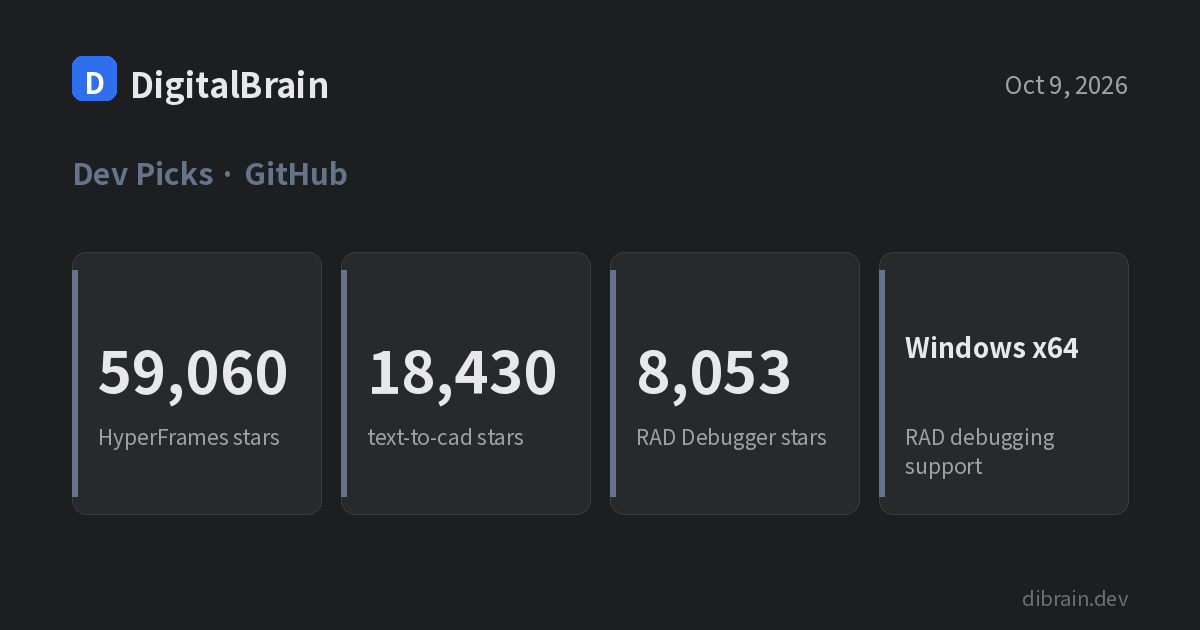
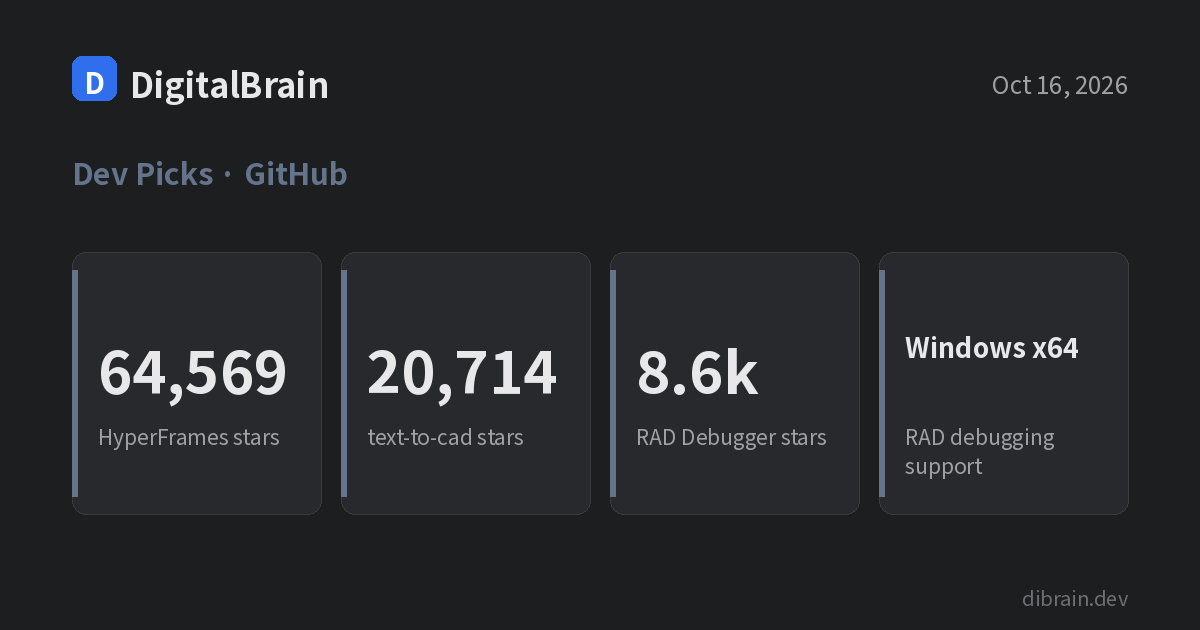
post: Surface Laptop Ultra (RTX Spark) and GitHub picks — reviewed
Both drafts approved by the operator after re-checking every number.

Surface Laptop Ultra:
- Germany: €4,239 is the 32GB/1TB configuration, not the full spec;
  the 128GB model is €6,879 (Microsoft Store DE, Notebookcheck).
- US higher tier filled in: from $3,699.99 (32GB/1TB, 20-core).
- "1 petaflop (FP4)" → Microsoft quotes up to one petaflop without a
  precision; bandwidth stated as reported, not on Microsoft's spec page.
- Dell XPS 16 Creator Edition price now known ($3,799.99, 32GB/512GB).
- Sources now lead with Microsoft's blog and store pages.

GitHub picks:
- Star counts and weekly gains updated to the 2026-10-16 trending page.
- RAD Debugger does have releases (latest v0.9.29-alpha, Sep 30); the
  draft said none of the three had any.
- Added the Smart App Control caveat (cannot be re-enabled without
  reinstalling Windows) and what text-to-cad telemetry does not send.

Claude-Session: https://claude.ai/code/session_01Hxmxdanjb42vteTsPJVtFn

diff --git a/content/posts/2026-10-16-dev-hyperframes-text-to-cad-raddebugger.ko.md b/content/posts/2026-10-16-dev-hyperframes-text-to-cad-raddebugger.ko.md
@@ -1,29 +1,30 @@
 ---
 title: "에이전트가 영상과 CAD를 뽑고, 디버거는 아직 알파"
 seoTitle: "HyperFrames·text-to-cad·RAD Debugger 사용법 | GitHub 트렌딩"
-date: 2026-10-09T03:12:38+09:00
+date: 2026-10-16T10:09:41+09:00
 slug: "dev-hyperframes-text-to-cad-raddebugger"
 summary: "이번 주 GitHub 주간 트렌딩에서 HTML로 영상을 렌더링하는 HyperFrames, 에이전트에게 3D CAD 모델링을 맡기는 text-to-cad, 에픽게임즈의 그래픽 디버거 RAD Debugger를 골라 라이선스와 설치 방법, 현재 한계를 정리했습니다."
 tags: ["GitHub"]
 categories: ["Dev Picks"]
 cover:
   image: "/images/posts/dev-hyperframes-text-to-cad-raddebugger.ko.png"
-  alt: "커버 카드: HyperFrames 스타 5만 9천 개, text-to-cad 스타 1만 8천 개, RAD Debugger 스타 8천 개, RAD Debugger 지원 범위 Windows x64"
+  alt: "커버 카드: HyperFrames 스타 6만 4천여 개, text-to-cad 스타 2만 7백여 개, RAD Debugger 스타 약 8,600개, RAD Debugger 지원 범위 Windows x64"
   relative: false
-draft: true
+draft: false
+reviewed: "2026-10-16"
 ---
 
-AI 에이전트에게 코드만 짜게 하던 시기가 지나고, 영상과 3D 모델 같은 결과물까지 맡기는 저장소가 GitHub 주간 트렌딩에 올라왔습니다. 같은 목록에는 에이전트와 전혀 상관없는 네이티브 디버거도 있어서, 방향이 다른 세 개를 골랐습니다. 스타 수와 주간 증가분은 2026년 10월 9일 [GitHub 주간 트렌딩](https://github.com/trending?since=weekly) 화면 기준입니다.
+AI 에이전트에게 코드만 짜게 하던 시기가 지나고, 영상과 3D 모델 같은 결과물까지 맡기는 저장소가 GitHub 주간 트렌딩에 올라왔습니다. 같은 시기 목록에는 에이전트와 전혀 상관없는 네이티브 디버거도 있어서, 방향이 다른 세 개를 골랐습니다. 스타 수와 주간 증가분은 2026년 10월 16일 [GitHub 주간 트렌딩](https://github.com/trending?since=weekly) 화면 기준입니다. RAD Debugger는 10월 9일 목록에 있었고 16일 목록에서는 빠져, 저장소 페이지에 표시된 값을 적었습니다.
 
 | 저장소 | 총 스타 | 이번 주 증가 | 라이선스 |
 |---|---|---|---|
-| heygen-com/hyperframes | 59,060 | 3,908 | Apache 2.0 |
-| earthtojake/text-to-cad | 18,430 | 1,800 | MIT |
-| EpicGames/raddebugger | 8,053 | 257 | MIT |
+| heygen-com/hyperframes | 64,569 | 5,318 | Apache 2.0 |
+| earthtojake/text-to-cad | 20,714 | 2,244 | MIT |
+| EpicGames/raddebugger | 약 8,600 | — | MIT |
 
-출처: [GitHub Trending (weekly)](https://github.com/trending?since=weekly), [hyperframes](https://github.com/heygen-com/hyperframes), [text-to-cad](https://github.com/earthtojake/text-to-cad), [raddebugger](https://github.com/EpicGames/raddebugger)
+출처: [GitHub Trending (weekly)](https://github.com/trending?since=weekly), [hyperframes](https://github.com/heygen-com/hyperframes), [text-to-cad](https://github.com/earthtojake/text-to-cad), [raddebugger](https://github.com/EpicGames/raddebugger), [raddebugger 릴리스](https://github.com/EpicGames/raddebugger/releases)
 
-> **아직 확인하지 못한 것:** 세 저장소 모두 GitHub Releases 항목이 비어 있어 최신 릴리스 번호와 날짜를 확인하지 못했습니다.
+> **아직 확인하지 못한 것:** HyperFrames와 text-to-cad는 GitHub Releases 항목이 비어 있어 최신 릴리스 번호와 날짜를 확인하지 못했습니다. RAD Debugger는 9월 30일 올라온 `v0.9.29-alpha`가 최신 릴리스입니다.
 
 ## HyperFrames: HTML을 써서 MP4로 굽습니다
 
@@ -60,7 +61,7 @@ claude plugin install text-to-cad@earthtojake
 
 그 밖에 Codex, Cursor, Gemini용 명령과, 스킬만 쓰는 `npx skills add earthtojake/text-to-cad#latest` 가 README에 있습니다.
 
-**쓰기 전에 알아 둘 조건이 있습니다.** README는 CAD 실행에 `uv`가 필요하고, 처음 시작할 때 CAD 런타임을 내려받으려면 네트워크가 있어야 한다고 적었습니다. Windows 11에서는 스마트 앱 컨트롤을 꺼야 하며, 아니면 WSL에서 CAD 스킬을 돌려야 `OCP`가 불러와집니다. 원격 측정은 기본으로 켜져 있고 `uvx cadgen telemetry off`로 끌 수 있습니다.
+**쓰기 전에 알아 둘 조건이 있습니다.** README는 CAD 실행에 `uv`가 필요하고, 처음 시작할 때 CAD 런타임을 내려받으려면 네트워크가 있어야 한다고 적었습니다. Windows 11에서는 스마트 앱 컨트롤이 서명되지 않은 `OCP` 모듈을 막으므로, 이 기능을 끄거나 WSL에서 CAD 스킬을 돌려야 합니다. README에 따르면 스마트 앱 컨트롤은 한 번 끄면 Windows를 다시 설치하기 전에는 다시 켤 수 없어서, 회사 PC라면 WSL 쪽이 안전합니다. 원격 측정은 기본으로 켜져 있고(파일·경로·프롬프트는 보내지 않는다고 밝힘) `uvx cadgen telemetry off`로 끌 수 있습니다.
 
 임베디드·하드웨어 쪽에서는 케이스나 브래킷 같은 부품의 초안을 STL로 뽑아 3D 프린터로 보내는 용도가 가장 가깝습니다. 생성된 모델의 정밀도나 공차는 확인한 자료가 없어 판단하지 않습니다.
 
@@ -70,9 +71,9 @@ claude plugin install text-to-cad@earthtojake
 
 [RAD Debugger](https://github.com/EpicGames/raddebugger)는 에픽게임즈 조직 저장소이고 MIT 라이선스입니다. README는 이것을 "네이티브, 사용자 모드, 다중 프로세스 그래픽 디버거"라고 소개합니다. 같은 저장소에 디버그 정보 형식인 RDI와, 아주 큰 실행 파일의 빠른 링킹을 목표로 하는 RAD Linker도 들어 있습니다.
 
-에이전트와는 무관한 저장소가 한 주에 257개 스타를 더한 것은 눈에 띄지만, **README가 스스로 알파라고 밝히고 있습니다.** 현재는 PDB를 쓰는 로컬 Windows x64 디버깅만 지원하고, 리눅스 네이티브 디버깅과 DWARF 지원은 계획 단계입니다. 리눅스 x64는 빌드 대상이지만 디버깅 대상은 아직 아닙니다.
+에이전트와 무관한 디버거가 트렌딩에 오른 것은 눈에 띄지만, **README가 스스로 알파라고 밝히고 있습니다.** 미리 빌드한 실행 파일은 릴리스 페이지에 있고, 최신은 `v0.9.29-alpha`입니다. 현재는 PDB를 쓰는 로컬 Windows x64 디버깅만 지원하고, 리눅스 네이티브 디버깅과 DWARF 지원은 계획 단계입니다. 리눅스 x64는 빌드 대상이지만 디버깅 대상은 아직 아닙니다.
 
-빌드 명령은 README에 아래처럼 나옵니다. 성공하면 `build` 폴더에 `raddbg.exe`(Windows) 또는 `raddbg`(리눅스) 바이너리가 생깁니다.
+직접 빌드하려면 README의 명령을 씁니다. Windows는 MSVC x64 개발자 명령 프롬프트에서 실행하고, 리눅스는 GCC나 Clang이 필요합니다. 성공하면 `build` 폴더에 `raddbg.exe`(Windows) 또는 `raddbg`(리눅스) 바이너리가 생깁니다.
 
 ```bash
 # Windows x64
@@ -86,4 +87,4 @@ build release
 
 ## 같은 트렌딩, 쓸 수 있는 시점은 다릅니다
 
-HyperFrames와 text-to-cad는 명령 몇 줄로 오늘 시험해 볼 수 있지만 둘 다 에이전트 환경이 갖춰져 있어야 합니다. RAD Debugger는 설치가 간단해도 지원 범위가 Windows x64로 좁습니다. 스타 수가 많은 순서가 아니라, 내 작업 환경이 각 저장소의 전제 조건과 맞는지를 먼저 보는 편이 안전합니다.
+HyperFrames와 text-to-cad는 명령 몇 줄로 오늘 시험해 볼 수 있지만 둘 다 에이전트 환경이 갖춰져 있어야 합니다. RAD Debugger는 릴리스 파일을 받으면 바로 쓸 수 있지만 지원 범위가 Windows x64로 좁습니다. 스타 수가 많은 순서가 아니라, 내 작업 환경이 각 저장소의 전제 조건과 맞는지를 먼저 보는 편이 안전합니다.

diff --git a/content/posts/2026-10-16-dev-hyperframes-text-to-cad-raddebugger.en.md b/content/posts/2026-10-16-dev-hyperframes-text-to-cad-raddebugger.en.md
@@ -1,29 +1,30 @@
 ---
 title: "Agents now render video and CAD; the debugger is still alpha"
 seoTitle: "HyperFrames, text-to-cad, RAD Debugger: GitHub Trending This Week"
-date: 2026-10-09T03:12:38+09:00
+date: 2026-10-16T10:09:41+09:00
 slug: "dev-hyperframes-text-to-cad-raddebugger"
 summary: "Three repositories from this week's GitHub trending list: HyperFrames renders HTML to MP4, text-to-cad lets coding agents build 3D CAD models, and Epic Games' RAD Debugger. Licenses, install commands and current limits."
 tags: ["GitHub"]
 categories: ["Dev Picks"]
 cover:
   image: "/images/posts/dev-hyperframes-text-to-cad-raddebugger.en.png"
-  alt: "Cover card: HyperFrames 59k stars, text-to-cad 18k stars, RAD Debugger 8k stars, RAD Debugger supports Windows x64 debugging"
+  alt: "Cover card: HyperFrames 64.5k stars, text-to-cad 20.7k stars, RAD Debugger about 8.6k stars, RAD Debugger supports Windows x64 debugging"
   relative: false
-draft: true
+draft: false
+reviewed: "2026-10-16"
 ---
 
-Agents that only write code are no longer the interesting part of GitHub's weekly trending list. Two of this week's entries hand agents a different output, video and 3D models, and a third is a native debugger with nothing to do with agents. Star counts and weekly gains below come from the [GitHub weekly trending page](https://github.com/trending?since=weekly) as of October 9, 2026.
+Agents that only write code are no longer the interesting part of GitHub's weekly trending list. Two of this week's entries hand agents a different output, video and 3D models, and a third is a native debugger with nothing to do with agents. Star counts and weekly gains below come from the [GitHub weekly trending page](https://github.com/trending?since=weekly) as of October 16, 2026. RAD Debugger was on the October 9 list but not the October 16 one, so its count is the figure shown on its repository page.
 
 | Repository | Total stars | Gained this week | License |
 |---|---|---|---|
-| heygen-com/hyperframes | 59,060 | 3,908 | Apache 2.0 |
-| earthtojake/text-to-cad | 18,430 | 1,800 | MIT |
-| EpicGames/raddebugger | 8,053 | 257 | MIT |
+| heygen-com/hyperframes | 64,569 | 5,318 | Apache 2.0 |
+| earthtojake/text-to-cad | 20,714 | 2,244 | MIT |
+| EpicGames/raddebugger | about 8,600 | — | MIT |
 
-Sources: [GitHub Trending (weekly)](https://github.com/trending?since=weekly), [hyperframes](https://github.com/heygen-com/hyperframes), [text-to-cad](https://github.com/earthtojake/text-to-cad), [raddebugger](https://github.com/EpicGames/raddebugger)
+Sources: [GitHub Trending (weekly)](https://github.com/trending?since=weekly), [hyperframes](https://github.com/heygen-com/hyperframes), [text-to-cad](https://github.com/earthtojake/text-to-cad), [raddebugger](https://github.com/EpicGames/raddebugger), [raddebugger releases](https://github.com/EpicGames/raddebugger/releases)
 
-> **Not yet confirmed:** none of the three repositories shows a GitHub Releases entry, so we could not confirm a latest release number or date.
+> **Not yet confirmed:** HyperFrames and text-to-cad show no GitHub Releases entry, so we could not confirm a latest release number or date. RAD Debugger's latest release is `v0.9.29-alpha`, published September 30.
 
 ## HyperFrames: write HTML, get an MP4
 
@@ -60,7 +61,7 @@ claude plugin install text-to-cad@earthtojake
 
 The README also covers Codex, Cursor and Gemini, and a skills-only route: `npx skills add earthtojake/text-to-cad#latest`.
 
-**Check the prerequisites first.** CAD runs through `uv`, and the first start needs a network connection to download the CAD runtime. On Windows 11, Smart App Control must be off, or you run the skills under WSL, otherwise `OCP` fails to load. Telemetry is on by default; `uvx cadgen telemetry off` disables it.
+**Check the prerequisites first.** CAD runs through `uv`, and the first start needs a network connection to download the CAD runtime. On Windows 11, Smart App Control blocks the unsigned `OCP` module, so either turn it off or run the CAD skills under WSL. The README notes that once Smart App Control is off it can only be turned back on by reinstalling Windows, so WSL is the safer route on a work PC. Telemetry is on by default (the README says files, paths and prompts are not sent); `uvx cadgen telemetry off` disables it.
 
 For hardware work, the closest fit is drafting enclosures or brackets as STL for a 3D printer. We found no data on the dimensional accuracy or tolerances of generated models, so we do not judge them.
 
@@ -70,9 +71,9 @@ Best for: developers who design printable parts often and want to iterate on par
 
 [RAD Debugger](https://github.com/EpicGames/raddebugger) lives in Epic Games' organization under the MIT license. The README calls it "a native, user-mode, multi-process, graphical debugger." The repository also contains RDI, a debug-info format, and the RAD Linker, aimed at fast linking of very large executables.
 
-A repository unrelated to agents adding 257 stars in a week stands out, but **the README itself labels the project alpha.** It currently supports only local-machine Windows x64 debugging with PDBs; native Linux debugging and DWARF support are planned. Linux x64 is a build target, not yet a debugging target.
+A debugger with nothing to do with agents showing up on the trending list stands out, but **the README itself labels the project alpha.** Prebuilt binaries are on the releases page; the latest is `v0.9.29-alpha`. It currently supports only local-machine Windows x64 debugging with PDBs; native Linux debugging and DWARF support are planned. Linux x64 is a build target, not yet a debugging target.
 
-Build commands from the README. A successful build produces `raddbg.exe` (Windows) or a `raddbg` binary (Linux) in the `build` folder.
+To build it yourself, use the README commands: on Windows, run them from an MSVC x64 developer prompt; on Linux you need GCC or Clang. A successful build produces `raddbg.exe` (Windows) or a `raddbg` binary (Linux) in the `build` folder.
 
 ```bash
 # Windows x64
@@ -86,4 +87,4 @@ Best for: Windows developers debugging MSVC-style C/C++ programs who want an alt
 
 ## Same trending list, different readiness
 
-HyperFrames and text-to-cad can be tried today with a few commands, but both assume an agent setup is already in place. RAD Debugger installs simply, yet its supported scope is narrow. Check whether your environment meets each repository's prerequisites before looking at star counts.
+HyperFrames and text-to-cad can be tried today with a few commands, but both assume an agent setup is already in place. RAD Debugger works straight from a release download, yet its supported scope is narrow. Check whether your environment meets each repository's prerequisites before looking at star counts.

diff --git a/content/posts/2026-10-16-laptop-surface-laptop-ultra-rtx-spark.ko.md b/content/posts/2026-10-16-laptop-surface-laptop-ultra-rtx-spark.ko.md
@@ -1,0 +1,49 @@
+---
+title: "서피스 랩톱 울트라, 2,599달러에 RTX Spark를 처음 올렸다"
+seoTitle: "서피스 랩톱 울트라 RTX Spark 스펙·가격: 18코어 vs 20코어, 10월 16일 출하"
+date: 2026-10-16T10:09:41+09:00
+slug: "laptop-surface-laptop-ultra-rtx-spark"
+summary: "마이크로소프트가 엔비디아 RTX Spark를 처음 얹은 서피스 랩톱 울트라의 사전 예약을 시작했습니다. 두 가지 칩 구성과 가격, 출하일, 아직 공개되지 않은 값을 정리했습니다."
+tags: ["Laptop", "Global"]
+categories: ["Deep Dive"]
+cover:
+  image: "/images/posts/laptop-surface-laptop-ultra-rtx-spark.ko.png"
+  alt: "커버 카드: 시작가 2,599달러, 최대 CUDA 코어 6,144개, 최대 메모리 128GB, 출하일 10월 16일"
+  relative: false
+draft: false
+reviewed: "2026-10-16"
+---
+
+노트북 한 대 가격이 2,599달러부터인데, 같은 라인에서 칩을 한 단계 올리면 사양표가 어떻게 달라질까요? 마이크로소프트가 10월 7일 사전 예약을 연 서피스 랩톱 울트라는 엔비디아 RTX Spark(N1X)를 처음 올린 노트북 가운데 하나이고, 구성은 크게 두 가지입니다.
+
+## 18코어와 20코어, 가격은 두 배 넘게 벌어집니다
+
+| 항목 | 기본 구성 | 상위 구성 |
+|---|---|---|
+| CPU | 18코어 | 20코어 |
+| GPU(CUDA 코어) | 5,120개 | 6,144개 |
+| 메모리 / 저장공간 | 24GB / 512GB | 32GB / 1TB부터(최대 128GB) |
+| 미국 가격 | 2,599달러 | 3,699.99달러부터(128GB·1TB 5,899.99달러) |
+| 독일 가격 | 2,899유로 | 32GB·1TB 4,239유로, 128GB 6,879유로 |
+| 디스플레이 | 15인치 미니LED, HDR 최대 2,000니트 | 동일 |
+| 사전 예약 / 출하 | 10월 7일 / 10월 16일 | 동일 |
+
+출처: [마이크로소프트 Windows 블로그](https://blogs.windows.com/devices/2026/10/07/pre-order-our-most-powerful-surface-devices-ever/), [Microsoft Store(미국)](https://www.microsoft.com/en-us/store/configure/surface-laptop-ultra/8wg5vqp0x4b8), [Microsoft Store(독일)](https://www.microsoft.com/de-de/store/configure/surface-laptop-ultra/8wg5vqp0x4b8), [Windows Central](https://www.windowscentral.com/hardware/surface/surface-laptop-ultra-preorders-live), [Notebookcheck(독일 가격)](https://www.notebookcheck.com/Microsoft-Surface-Laptop-Ultra-startet-mit-RTX-Spark-zum-hohen-Preis.1418422.0.html)
+
+> **아직 공개되지 않은 것:** 국내 출시 여부와 원화 가격, 화면 해상도, 배터리 용량, 메모리 대역폭, 독립 벤치마크. 미국 가격은 마이크로소프트 발표 기준(스토어 표기는 2,599.99달러)입니다. 공식 자료가 나오면 이 글을 고칩니다.
+
+## 메모리가 곧 가격표입니다
+
+최대 128GB 통합 메모리까지 올라가는 구성이 5,899.99달러로, 기본형의 두 배를 훌쩍 넘습니다. 같은 20코어 칩이라도 32GB·1TB(3,699.99달러)에서 128GB로 올리면 2,200달러가 더 붙습니다. CPU와 GPU가 같은 메모리를 나눠 쓰는 구조라서, 큰 모델을 로컬에서 돌리려는 사람은 칩보다 메모리 용량 때문에 윗단계를 사게 됩니다. 마이크로소프트는 AI 연산을 최대 1페타플롭으로 소개합니다(어떤 정밀도 기준인지는 밝히지 않았습니다).
+
+메모리 대역폭은 매체마다 300GB/s 안팎으로 적고 있지만, 확인한 마이크로소프트 사양 페이지에는 대역폭 값이 없습니다. 노트북용 칩의 전력 범위는 45~80W로 보도됐습니다. 얇은 서피스 섀시에서 이 전력이 얼마나 유지되는지는 독립 리뷰가 나와야 알 수 있습니다.
+
+출처: [Computing for Geeks](https://computingforgeeks.com/nvidia-rtx-spark-linux/), [StorageReview](https://www.storagereview.com/news/nvidia-rtx-spark-pre-orders-n1x-laptop-desktop-tdp-mxc-dgx-station-for-windows)
+
+## 같은 칩을 쓰는 경쟁은 이제 시작입니다
+
+같은 칩을 쓴 노트북은 서피스만이 아닙니다. 에이수스, 델, 레노버, HP, MSI의 노트북도 10월 16일부터 출하됩니다. 델 XPS 16 크리에이터 에디션은 16인치 3.2K(3,200×2,000) 탠덤 OLED를 달았고, 32GB·512GB 시작 구성이 미국에서 3,799.99달러로 예약을 받고 있습니다. 메모리 32GB끼리 놓으면 서피스 20코어 구성(32GB·1TB, 3,699.99달러)이 100달러 낮습니다. 다만 델 시작 구성의 칩이 18코어인지 20코어인지는 매체마다 달라 확인 필요이고, 화면 크기와 패널 종류도 다르니 가격만으로 줄 세우기는 이릅니다.
+
+출처: [Tom's Hardware](https://www.tomshardware.com/laptops/microsoft-and-nvidia-launch-surface-laptop-ultra-with-rtx-spark-rtx-spark-preorders-live-now-coinciding-with-major-windows-11-changes-for-agentic-ai), [StorageReview(델)](https://www.storagereview.com/news/dell-xps-16-creator-edition-rtx-spark-n1x-windows-gb300-pro-precision), [Notebookcheck(델)](https://www.notebookcheck.net/Dell-launches-Nvidia-RTX-Spark-laptop-with-18-core-CPU-3-2K-120Hz-OLED-display-and-99-Wh-battery.1418563.0.html)
+
+정리하면, 24GB 기본형은 2,599달러에 새 칩을 맛보는 구성이고, 로컬 AI가 목적이라면 메모리를 키운 상위 구성만 의미가 있습니다. 다만 실사용 성능과 발열은 출하 이후 리뷰에서 확인해야 합니다.

diff --git a/content/posts/2026-10-16-laptop-surface-laptop-ultra-rtx-spark.en.md b/content/posts/2026-10-16-laptop-surface-laptop-ultra-rtx-spark.en.md
@@ -1,0 +1,49 @@
+---
+title: "Surface Laptop Ultra Is the First RTX Spark Laptop You Can Preorder, From $2,599"
+seoTitle: "Surface Laptop Ultra RTX Spark Specs and Price: 18-Core vs 20-Core, Ships Oct 16"
+date: 2026-10-16T10:09:41+09:00
+slug: "laptop-surface-laptop-ultra-rtx-spark"
+summary: "Microsoft opened preorders for the Surface Laptop Ultra, among the first laptops built on Nvidia's RTX Spark (N1X). Here are the two chip tiers, prices, ship date and what is still undisclosed."
+tags: ["Laptop", "Global"]
+categories: ["Deep Dive"]
+cover:
+  image: "/images/posts/laptop-surface-laptop-ultra-rtx-spark.en.png"
+  alt: "Cover card: starting price $2,599, up to 6,144 CUDA cores, up to 128GB memory, ships October 16"
+  relative: false
+draft: false
+reviewed: "2026-10-16"
+---
+
+Microsoft's Surface Laptop Ultra, open for preorder since October 7, is built on Nvidia's RTX Spark (N1X). The headline is the memory ladder: the chip tier matters less than how much unified memory you buy with it.
+
+## Two chip tiers, a wide price gap
+
+| Spec | Base | Higher tier |
+|---|---|---|
+| CPU | 18 cores | 20 cores |
+| GPU (CUDA cores) | 5,120 | 6,144 |
+| Memory / storage | 24GB / 512GB | from 32GB / 1TB (up to 128GB) |
+| US price | $2,599 | from $3,699.99 (128GB/1TB: $5,899.99) |
+| Germany | €2,899 | 32GB/1TB €4,239; 128GB €6,879 |
+| Display | 15" Mini-LED, up to 2,000 nits peak HDR | same |
+| Preorder / ships | Oct 7 / Oct 16 | same |
+
+Sources: [Microsoft Windows blog](https://blogs.windows.com/devices/2026/10/07/pre-order-our-most-powerful-surface-devices-ever/), [Microsoft Store (US)](https://www.microsoft.com/en-us/store/configure/surface-laptop-ultra/8wg5vqp0x4b8), [Microsoft Store (Germany)](https://www.microsoft.com/de-de/store/configure/surface-laptop-ultra/8wg5vqp0x4b8), [Windows Central](https://www.windowscentral.com/hardware/surface/surface-laptop-ultra-preorders-live), [Notebookcheck (German pricing)](https://www.notebookcheck.com/Microsoft-Surface-Laptop-Ultra-startet-mit-RTX-Spark-zum-hohen-Preis.1418422.0.html)
+
+> **Not yet disclosed:** Korea availability and pricing, screen resolution, battery capacity, memory bandwidth, independent benchmarks. The US price is Microsoft's announced figure (the store lists $2,599.99). We'll update this post when they are.
+
+## Memory is the real price tag
+
+The 128GB configuration costs $5,899.99, more than double the base. Even on the same 20-core chip, going from 32GB/1TB ($3,699.99) to 128GB adds $2,200. CPU and GPU share one pool of memory, so anyone running large models locally will buy up for capacity, not for the extra two cores. Microsoft quotes up to one petaflop of AI compute, without saying at which precision.
+
+Outlets put memory bandwidth at roughly 300GB/s, but Microsoft's spec page we checked gives no bandwidth figure. The laptop chip's power range is reported at 45–80W. How long a thin Surface chassis can sustain that is a question for independent reviews.
+
+Sources: [Computing for Geeks](https://computingforgeeks.com/nvidia-rtx-spark-linux/), [StorageReview](https://www.storagereview.com/news/nvidia-rtx-spark-pre-orders-n1x-laptop-desktop-tdp-mxc-dgx-station-for-windows)
+
+## The competition is just arriving
+
+Other laptops use the same chip: machines from Asus, Dell, Lenovo, HP and MSI also ship from October 16. Dell's XPS 16 Creator Edition pairs it with a 16-inch 3.2K (3,200×2,000) Tandem OLED, and its 32GB/512GB starting configuration is on US preorder at $3,799.99. At 32GB each, the Surface 20-core configuration (32GB/1TB, $3,699.99) is $100 cheaper. Outlets disagree on whether Dell's entry model uses the 18- or 20-core chip, though, and the screens differ, so ranking them on price alone is premature.
+
+Sources: [Tom's Hardware](https://www.tomshardware.com/laptops/microsoft-and-nvidia-launch-surface-laptop-ultra-with-rtx-spark-rtx-spark-preorders-live-now-coinciding-with-major-windows-11-changes-for-agentic-ai), [StorageReview (Dell)](https://www.storagereview.com/news/dell-xps-16-creator-edition-rtx-spark-n1x-windows-gb300-pro-precision), [Notebookcheck (Dell)](https://www.notebookcheck.net/Dell-launches-Nvidia-RTX-Spark-laptop-with-18-core-CPU-3-2K-120Hz-OLED-display-and-99-Wh-battery.1418563.0.html)
+
+In short: the 24GB base is $2,599 for early access to the new chip, and only the high-memory tiers make sense for local AI. Real-world performance and thermals have to wait for shipping units.
